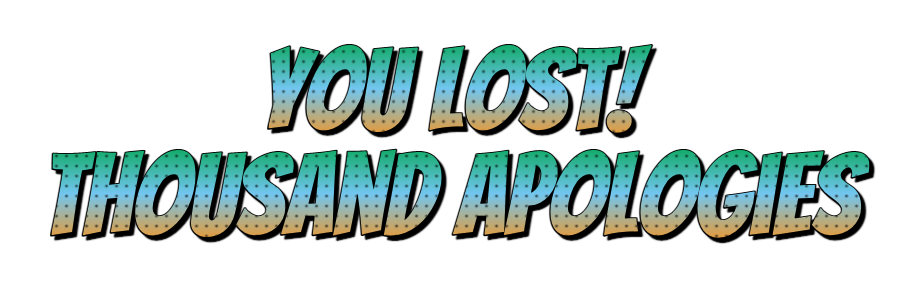
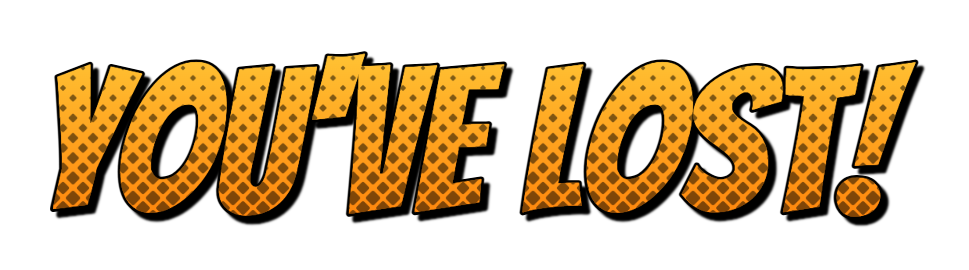
display bet reward when player wins

diff --git a/src/components/claim/Claim.tsx b/src/components/claim/Claim.tsx
@@ -11,18 +11,12 @@ import nada from '../../assets/imgs/nobet.png';
 const Claim = () => {
   const { betSession, player, winningTeam, claim } = useBettingContext();
 
-  console.log(`betSession.betId ${betSession.betId}`);
-  console.log(`winningTeam ${winningTeam}`);
-
-  console.log(`player.betId ${player.betId}`);
-  console.log(`player.teamSelected ${player.teamSelected}`);
-
   if (betSession.betId !== player.betId) {
     return (
       <Box display="flex" flexDirection="column" alignItems="center">
         <img src={nada} alt="You have not place a bet" />
         <Alert severity="info" icon={false}>
-          You do not place a bet and betting session is closed.
+          Betting session closed.
         </Alert>
       </Box>
     );
@@ -37,7 +31,7 @@ const Claim = () => {
       <Box display="flex" flexDirection="column" alignItems="center">
         <img src={youlost} alt="You lost" />
         <Alert severity="info" icon={false}>
-          {TEAM[winningTeam]} wins! You bet {TEAM[player.teamSelected]}.
+          {TEAM[winningTeam]} wins! You bet on {TEAM[player.teamSelected]}.
         </Alert>
       </Box>
     );
@@ -46,7 +40,8 @@ const Claim = () => {
   if (
     winningTeam !== 0 &&
     winningTeam === player.teamSelected &&
-    betSession.betId === player.betId
+    betSession.betId === player.betId &&
+    !player.hasClaimed
   ) {
     return (
       <Box display="flex" flexDirection="column" alignItems="center">
@@ -57,6 +52,23 @@ const Claim = () => {
         <Button variant="contained" onClick={claim}>
           claim
         </Button>
+      </Box>
+    );
+  }
+
+  if (
+    winningTeam !== 0 &&
+    winningTeam === player.teamSelected &&
+    betSession.betId === player.betId &&
+    player.hasClaimed
+  ) {
+    return (
+      <Box display="flex" flexDirection="column" alignItems="center">
+        <img src={youwin} alt="You win" />
+        <Alert severity="success" icon={false}>
+          <strong>Ξ</strong>
+          {player.amountClaimed} has been transferrred to your wallet!
+        </Alert>
       </Box>
     );
   }

diff --git a/src/App.tsx b/src/App.tsx
@@ -4,10 +4,11 @@ import { Web3ReactProvider } from '@web3-react/core';
 import MetaMaskOnboarding from '@metamask/onboarding';
 import Betting from './components/betting/Betting';
 import Account from './components/metamask/Account';
-import { BettingContextProvider } from './contexts/Betting';
+import { BettingContextProvider, useBettingContext } from './contexts/Betting';
 import logo from './assets/imgs/moneycome.png';
 
 const Header = () => {
+  const { betSession } = useBettingContext();
   return (
     <Box
       display="flex"
@@ -21,8 +22,9 @@ const Header = () => {
           style={{ width: '155px', height: 'auto' }}
         />
       </Box>
-      <Box mx={3} my={0} flexGrow={1}>
+      <Box display="flex" flexDirection="column" mx={3} my={0} flexGrow={1}>
         <Account />
+        BID: {betSession.betId === -1 ? 'Loading...' : betSession.betId}
       </Box>
     </Box>
   );
@@ -44,12 +46,12 @@ function App() {
   }
   return (
     <Web3ReactProvider getLibrary={getLibrary}>
-      <Box mx={1} my={1}>
-        <Header />
-        <BettingContextProvider>
+      <BettingContextProvider>
+        <Box mx={1} my={1}>
+          <Header />
           <Betting />
-        </BettingContextProvider>
-      </Box>
+        </Box>
+      </BettingContextProvider>
     </Web3ReactProvider>
   );
 }

diff --git a/src/contexts/Betting.tsx b/src/contexts/Betting.tsx
@@ -14,6 +14,8 @@ type Player = {
   amountBet: number;
   teamSelected: number;
   betId: number;
+  hasClaimed: boolean;
+  amountClaimed: string;
 };
 
 export enum BetState {
@@ -58,6 +60,8 @@ export const BettingContextProvider = ({ children }: Props) => {
     amountBet: 0,
     teamSelected: -1,
     betId: -1,
+    hasClaimed: false,
+    amountClaimed: '0',
   });
 
   const { ethereum } = window;
@@ -139,6 +143,8 @@ export const BettingContextProvider = ({ children }: Props) => {
         amountBet: val.betAmountInEther,
         teamSelected: val.selectedTeam,
         betId: betId,
+        hasClaimed: false,
+        amountClaimed: '0',
       });
 
       console.log(receipt);
@@ -172,6 +178,14 @@ export const BettingContextProvider = ({ children }: Props) => {
     const tx = await contract.connect(signer).claim();
     const receipt = await tx.wait();
     console.log(receipt);
+
+    if (receipt.events[0].event === 'GainsClaimed') {
+      let amount = receipt.events[0].args[1]; // big number
+      amount = ethers.BigNumber.from(amount);
+      const amountInEther = ethers.utils.formatEther(amount);
+      setPlayer({ ...player, hasClaimed: true, amountClaimed: amountInEther });
+    }
+
     setDelayInterval(DELAY_INTERVAL);
   };
 

diff --git a/src/components/operator/Operator.tsx b/src/components/operator/Operator.tsx
@@ -1,19 +1,11 @@
 import Box from '@mui/material/Box';
 import Button from '@mui/material/Button';
 import { CircularProgress } from '@mui/material';
-import List from '@mui/material/List';
-import ListItem from '@mui/material/ListItem';
-import ListItemText from '@mui/material/ListItemText';
 import { BetState } from '../../contexts/Betting';
 
 const Operator = ({ pending, betSession, startNewBet }) => {
   return (
     <Box display="flex" flexDirection="column">
-      <List>
-        <ListItem>
-          <ListItemText primary="Last bet id" secondary={betSession.betId} />
-        </ListItem>
-      </List>
       <Box display="flex" flexDirection="row">
         <Button
           variant="contained"

diff --git a/src/components/betting/BettingForm.tsx b/src/components/betting/BettingForm.tsx
@@ -52,7 +52,7 @@ export default function BettingForm() {
       <Box display="flex" flexDirection="column" alignItems="center">
         <img src={goodluck} alt="Good luck" />
         <Alert severity="info" icon={false}>
-          You bet on {TEAM[player.teamSelected]}! Please wait for
+          You bet on {TEAM[player.teamSelected]}! Please wait for an
           announcement...
         </Alert>
         <CountdownTimer />
